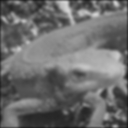
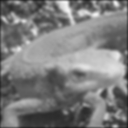
[WIP]ガウシアンフィルタ処理、Sobelフィルタ処理を関数に切り出した

diff --git a/Answer_41_50/answer_41.go b/Answer_41_50/answer_41.go
@@ -1,7 +1,6 @@
 package main
 
 import (
-	"fmt"
 	"image"
 	"image/color"
 	"image/jpeg"
@@ -35,13 +34,103 @@ func createGaussianFilter(w, h int, sigma float64) [][]float64 {
 		gaussianMatrix[y] = make([]float64, w)
 	}
 
+	sum := 0.0
 	for y, rowArray := range gaussianMatrix {
 		for x := range rowArray {
 			gaussianMatrix[y][x] = gaussian(y-h/2, x-w/2, sigma)
+			sum += gaussianMatrix[y][x]
+		}
+	}
+
+	// ガウシアンフィルタを正規化する
+	for y, rowArray := range gaussianMatrix {
+		for x := range rowArray {
+			gaussianMatrix[y][x] /= sum
 		}
 	}
 
 	return gaussianMatrix
+}
+
+func filterGaussian(grayImage *image.Gray, gaussianMatrix [][]float64) *image.Gray {
+	gaussianImg := image.NewGray(grayImage.Bounds())
+
+	W := gaussianImg.Bounds().Size().X
+	H := gaussianImg.Bounds().Size().Y
+	GW := len(gaussianMatrix)
+	GH := len(gaussianMatrix[0][:])
+
+	for y := 0; y < H; y++ {
+		for x := 0; x < W; x++ {
+			filterledVal := 0.0
+			for gy := 0; gy < GH; gy++ {
+				for gx := 0; gx < GW; gx++ {
+					grayX := x + (gx - GW/2)
+					if grayX < 0 || grayX > W {
+						continue
+					}
+
+					grayY := y + (gy - GH/2)
+					if grayY < 0 || grayY > W {
+						continue
+					}
+
+					pixVal := grayImage.GrayAt(grayX, grayY).Y
+					filterledVal += float64(pixVal) * gaussianMatrix[gy][gx]
+				}
+			}
+			if filterledVal > 255.0 {
+				filterledVal = 255.0
+			}
+
+			grayColor := color.Gray{uint8(filterledVal)}
+			gaussianImg.Set(x, y, grayColor)
+		}
+	}
+	return gaussianImg
+}
+
+func fileterSobel(grayImage *image.Gray, sobelMatrix [3][3]int) *image.Gray {
+	sobelImage := image.NewGray(grayImage.Bounds())
+
+	H := grayImage.Bounds().Size().Y
+	W := grayImage.Bounds().Size().X
+
+	for y := 0; y < H; y++ {
+		for x := 0; x < W; x++ {
+			// 対象ピクセルを中心とした3x3ピクセルの画素値に対してSobelフィルタを適用する
+			sobelValue := 0
+			for filterY := 0; filterY < len(sobelMatrix); filterY++ {
+				for filterX := 0; filterX < len(sobelMatrix[0][:]); filterX++ {
+					// 対象ピクセルの位置を計算する
+					srcPointX := filterX + x - 1
+					srcPointY := filterY + y - 1
+					var pixVal int
+					if (srcPointX < 0) || (srcPointX >= W) ||
+						(srcPointY < 0) || (srcPointY >= H) {
+						// 0パディング
+						pixVal = 0
+					} else {
+						pixVal = int(grayImage.GrayAt(srcPointX, srcPointY).Y)
+					}
+
+					// Sobelフィルタ畳み込み
+					sobelValue += pixVal * sobelMatrix[filterY][filterX]
+				}
+			}
+
+			if sobelValue < 0 {
+				sobelValue = 0
+			}
+			if sobelValue > 255 {
+				sobelValue = 255
+			}
+
+			grayColorSobel := color.Gray{uint8(sobelValue)}
+			sobelImage.Set(x, y, grayColorSobel)
+		}
+	}
+	return sobelImage
 }
 
 func main() {
@@ -64,41 +153,17 @@ func main() {
 	jpeg.Encode(grayImageFile, grayImage, &jpeg.Options{100})
 
 	gaussianMatrix := createGaussianFilter(5, 5, 1.4)
-	// for _, row := range gaussianMatrix {
-	// 	fmt.Println(row)
-	// }
-
-	W := grayImage.Bounds().Size().X
-	H := grayImage.Bounds().Size().Y
-	GW := len(gaussianMatrix)
-	GH := len(gaussianMatrix[0][:])
-
-	grayGaussianImg := image.NewGray(grayImage.Bounds())
-
-	for y := 0; y < H; y++ {
-		for x := 0; x < W; x++ {
-			filterledVal := 0.0
-			for gy := 0; gy < GH; gy++ {
-				for gx := 0; gx < GW; gx++ {
-					grayX := x + (gx - GW/2)
-					if grayX < 0 || grayX > W {
-						continue
-					}
-
-					grayY := y + (gy - GH/2)
-					if grayY < 0 || grayY > W {
-						continue
-					}
-
-					pixVal := grayImage.GrayAt(grayX, grayY).Y
-					filterledVal += float64(pixVal) * gaussianMatrix[gy][gx]
-				}
-			}
-			grayColor := color.Gray{uint8(filterledVal)}
-			grayGaussianImg.Set(x, y, grayColor)
+	sum := 0.0
+	for _, row := range gaussianMatrix {
+		for _, val := range row {
+			sum += val
 		}
 	}
 
+	W := grayImage.Bounds().Size().X
+	H := grayImage.Bounds().Size().Y
+
+	grayGaussianImg := filterGaussian(grayImage, gaussianMatrix)
 	grayGaussianImageFile, err := os.Create("./answer_41_step2.jpg")
 	defer grayGaussianImageFile.Close()
 	if err != nil {
@@ -115,34 +180,7 @@ func main() {
 	// fmt.Println(row)
 	// }
 
-	grayGaussianSobelvImg := image.NewGray(grayGaussianImg.Bounds())
-
-	for y := 0; y < H; y++ {
-		for x := 0; x < W; x++ {
-			filterledVal := 0
-			pixCount := 0
-			for sobelYv, sobelRowV := range sobelFilterV {
-				for sobelXv, sobelVal := range sobelRowV {
-					grayX := x + (sobelXv - len(sobelRowV)/2)
-					// fmt.Println("grayX", grayX)
-					if grayX < 0 || grayX > W {
-						continue
-					}
-
-					grayY := y + (sobelYv - len(sobelFilterV)/2)
-					if grayY < 0 || grayY > W {
-						continue
-					}
-
-					pixVal := grayGaussianImg.GrayAt(grayX, grayY).Y
-					filterledVal += int(pixVal) * sobelVal
-					pixCount++
-				}
-			}
-			grayColor := color.Gray{uint8(float64(filterledVal) / float64(pixCount))}
-			grayGaussianSobelvImg.Set(x, y, grayColor)
-		}
-	}
+	grayGaussianSobelvImg := fileterSobel(grayGaussianImg, sobelFilterV)
 	grayGaussianSobelvImageFile, err := os.Create("./answer_41_step3v.jpg")
 	defer grayGaussianSobelvImageFile.Close()
 	if err != nil {
@@ -156,33 +194,7 @@ func main() {
 		{0, 0, 0},
 		{-1, -2, -1}}
 
-	grayGaussianSobelhImg := image.NewGray(grayGaussianImg.Bounds())
-
-	for y := 0; y < H; y++ {
-		for x := 0; x < W; x++ {
-			filterledVal := 0
-			pixCount := 0
-			for sobelYh, sobelRowH := range sobelFilterH {
-				for sobelXh, sobelVal := range sobelRowH {
-					grayX := x + (sobelXh - len(sobelRowH)/2)
-					if grayX < 0 || grayX >= W {
-						continue
-					}
-
-					grayY := y + (sobelYh - len(sobelFilterH)/2)
-					if grayY < 0 || grayY >= W {
-						continue
-					}
-
-					pixVal := grayGaussianImg.GrayAt(grayX, grayY).Y
-					filterledVal += int(pixVal) * sobelVal
-					pixCount++
-				}
-			}
-			grayColor := color.Gray{uint8(float64(filterledVal) / float64(pixCount))}
-			grayGaussianSobelhImg.Set(x, y, grayColor)
-		}
-	}
+	grayGaussianSobelhImg := fileterSobel(grayGaussianImg, sobelFilterH)
 	grayGaussianSobelhImageFile, err := os.Create("./answer_41_step3h.jpg")
 	defer grayGaussianSobelhImageFile.Close()
 	if err != nil {
@@ -191,22 +203,47 @@ func main() {
 	jpeg.Encode(grayGaussianSobelhImageFile, grayGaussianSobelhImg, &jpeg.Options{100})
 
 	edgeImage := image.NewGray(grayGaussianImg.Bounds())
+	tanImage := image.NewGray(grayGaussianImg.Bounds())
 	for y := 0; y < H; y++ {
 		for x := 0; x < W; x++ {
 			fx := grayGaussianSobelvImg.GrayAt(x, y).Y
 			fy := grayGaussianSobelhImg.GrayAt(x, y).Y
 			edgeValue := math.Hypot(float64(fx), float64(fy))
-			fmt.Printf("%f ", edgeValue)
+			if edgeValue > 255.0 {
+				edgeValue = 255.0
+			}
+			// fmt.Printf("%f ", edgeValue)
 			edgeGrayColor := color.Gray{uint8(edgeValue)}
 			edgeImage.Set(x, y, edgeGrayColor)
+
+			tanValue := math.Atan(float64(fy) / float64(fx))
+			if tanValue > -0.4142 && tanValue <= 0.4142 {
+				tanValue = 0
+			} else if tanValue > 0.4142 && tanValue <= 2.4142 {
+				tanValue = 45
+			} else if tanValue <= -2.4142 || tanValue >= 2.4142 {
+				tanValue = 90
+			} else if tanValue > -2.4142 || tanValue <= -0.4142 {
+				tanValue = 135
+			}
+			tanGrayColor := color.Gray{uint8(tanValue)}
+			tanImage.Set(x, y, tanGrayColor)
 		}
-		fmt.Printf("\n")
+		// fmt.Printf("\n")
 	}
+
 	edgeImageFile, err := os.Create("./answer_41_1.jpg")
 	defer edgeImageFile.Close()
 	if err != nil {
 		log.Fatal(err)
 	}
 	jpeg.Encode(edgeImageFile, edgeImage, &jpeg.Options{100})
+
+	tanImageFile, err := os.Create("./answer_41_2.jpg")
+	defer tanImageFile.Close()
+	if err != nil {
+		log.Fatal(err)
+	}
+	jpeg.Encode(tanImageFile, tanImage, &jpeg.Options{100})
 
 }
